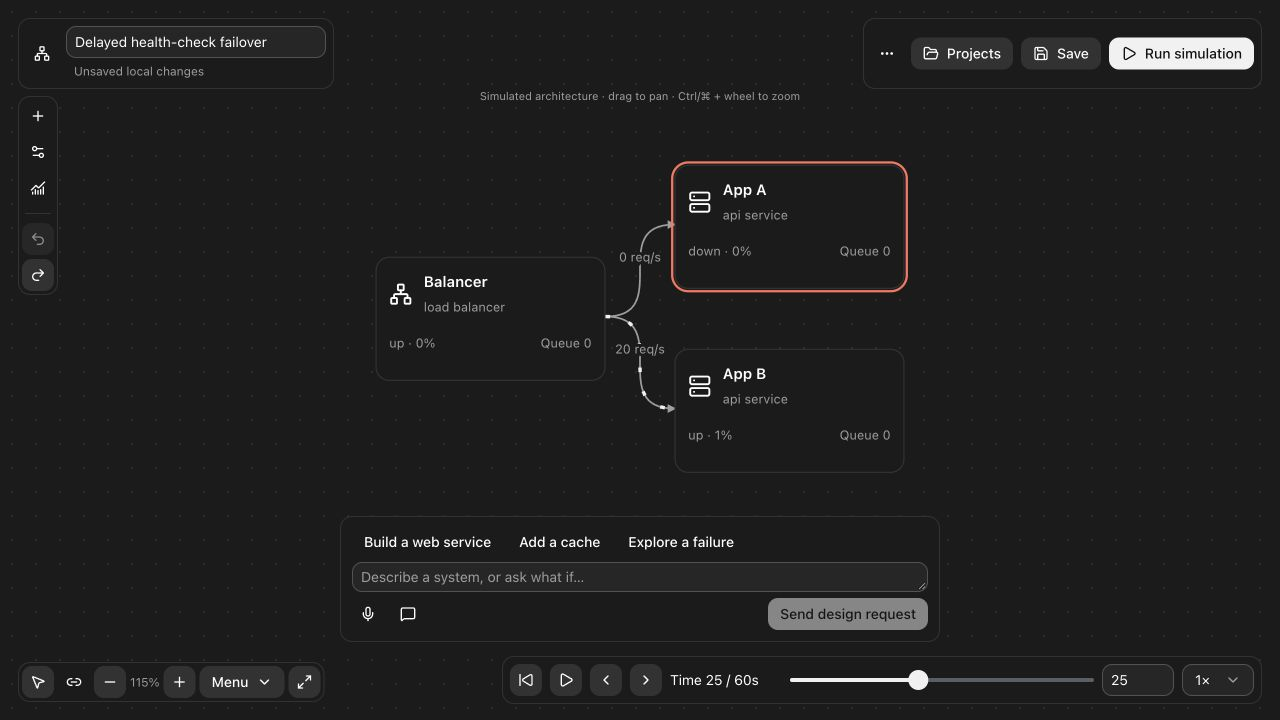
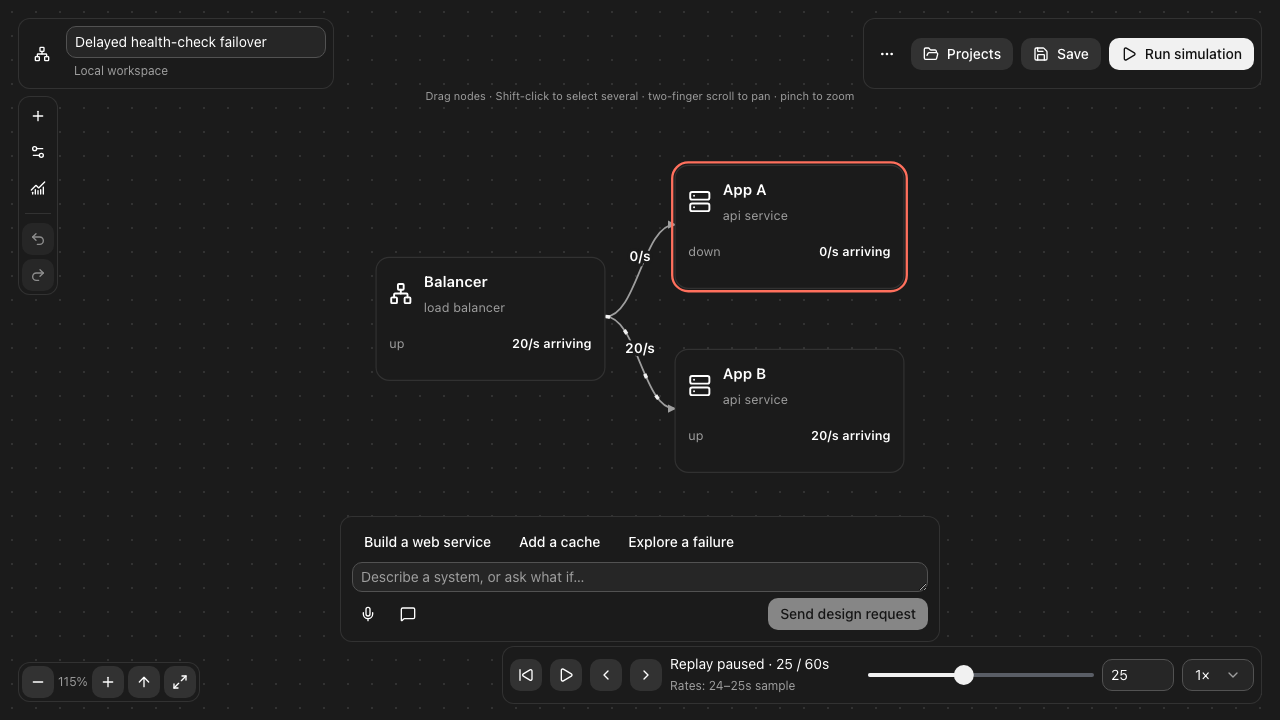
Refresh native workspace illustrations and settled keyboard regression

diff --git a/docs/VERIFICATION.md b/docs/VERIFICATION.md
@@ -173,3 +173,9 @@ New frontend fixtures derive component arrival and connection routed-call rates 
 A root-operated local browser journey on synthetic unsaved data verified arrival rates, sample labels, whole-run Results, stable replay camera, Play/Pause styles and rate suppression after editing. An authenticated Codex proposal changed one health-check delay and required explicit Apply & simulate; an already applied historical proposal could not apply twice. A separate fresh isolated Chromium regression passed the complete shared UI review, group edits, first-click application, Undo, incomplete-draft recovery, popup/Escape ownership and keyboard wiring. That Chromium did not expose the native WebMCP consumer; root separately exercised native WebMCP in its supported browser. Temporary QA resources were cleaned. Raw session evidence remains private; no screenshots or local machine paths are added here.
 
 Hosted CI and clean-package verification of this new public commit are still pending. Prior green hosted runs describe earlier public revisions. Physical input/accessibility certification, hover/cursor stability, microphone service, continuous film/audio perception and production calibration remain outside these checks.
+
+### Keyboard hint ownership and current documentation images
+
+Actual isolated pointer/keyboard checks found and repaired card-hint focus triggering and Canvas Escape interception. Card-button focus now opens the native hint; first Escape dismisses only that hint and retains focus/Inspector, and second Escape closes Inspector. The complete browser regression passed with a new identity-specific, settled-layer-state assertion plus all prior assertions. Rapid Tab transitions briefly showed earlier hints; an instrumented bounded check observed them clear after42ms, so the regression waits for actual ownership rather than sleeping or matching an unqualified tooltip role. Hover hit targets/bounds/computed grab cursor, pointer selection, connection ports, drag capture and one-step Undo passed. Within available canvas bounds, release did not move the viewport; Inspector reveal after an obscured move is intentional. OS cursor artwork and assistive-technology certification remain unverified.
+
+README images were refreshed from actual current-source synthetic states: light/dark failover at25s with App A down at0/s and App B receiving20/s; and a validated two-component proposal before application. These are discrete native captures, not continuous recordings or production-calibration evidence. QA resources were cleaned. Hosted CI and clean-package evidence must still be bound to the final public revision.

diff --git a/docs/CONTRACT.md b/docs/CONTRACT.md
@@ -58,3 +58,5 @@ Group numeric edits use an Astryx text field with a retained raw workspace draft
 Current canvas node arrivals and edge routed-call rates use cumulative counter differences over the actual adjacent retained-frame interval, including partial seconds. Arrivals include rejected calls; they are not successful completions or utilization. No prior interval or missing/reset counters means unavailable, distinct from zero. An edited workspace suppresses all current graph rates until rerun. Playback labels its sampled interval; Results labels the complete run. Opening Results fits the unobscured canvas once, never on replay ticks. Crowded edge labels may be omitted while node arrivals remain visible.
 
 Proposal summaries expose concrete setting changes before affected-item inventory and Apply controls. Full before/after diff, proposal JSON and advisory notes remain available; status/freshness guards and explicit application semantics are unchanged. Summary grouping is structured, never inferred by parsing human labels.
+
+Visible Astryx telemetry hints open on real card-button keyboard focus as well as hover. Escape goes to the visible tooltip through Astryx's layer stack before workspace actions. With no hint or active canvas gesture, Escape can dismiss the open panel. Runtime checks wait for focus ownership and queued hint closures to settle; they do not assume a fast Tab sequence instantly leaves one layer.
